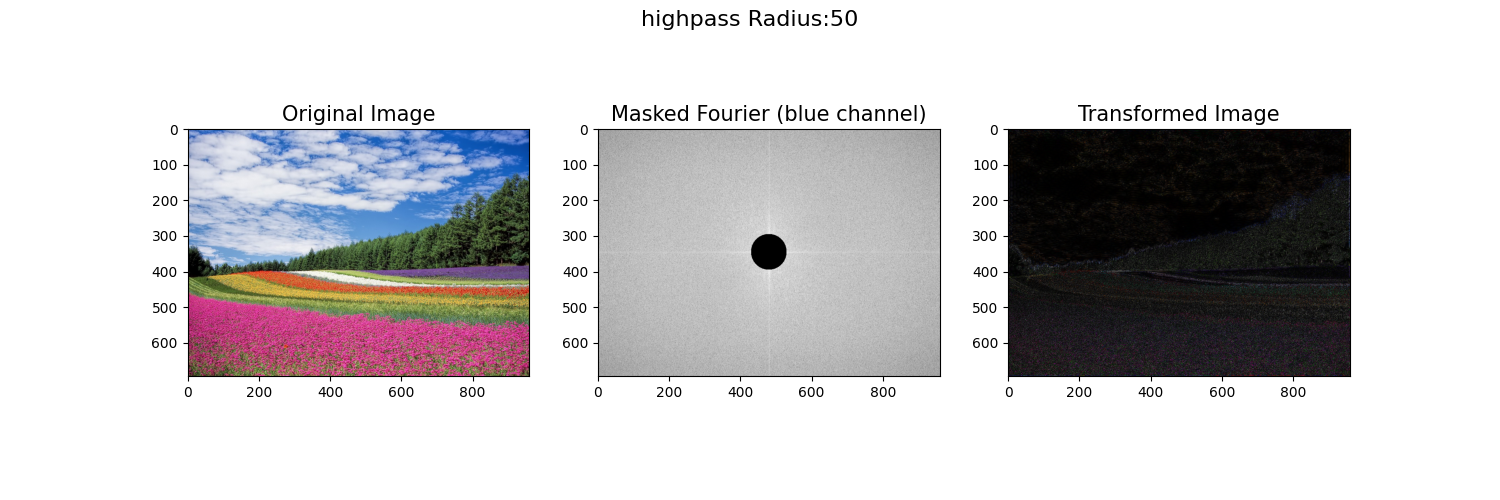
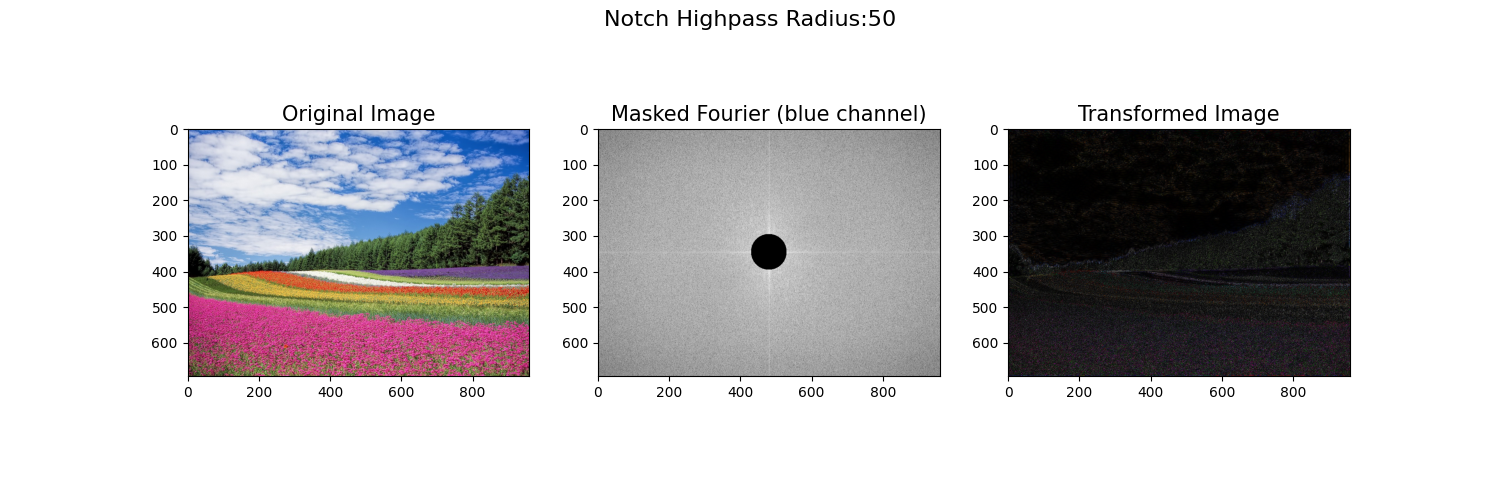
IP assign4 finished

diff --git a/ImageProcessing/assign4/q2.py b/ImageProcessing/assign4/q2.py
@@ -1,28 +1,28 @@
+import math
 import numpy as np
 import matplotlib.pyplot as plt
 from skimage.io import imread
 
 LOWPASS = 0
 HIGHPASS = 1
-def notch_filter(img_path, radius, type_=0):
+def gaussian_filter(img_path, cutoff, type_=0):
     img = imread(img_path)
+    cutoff_sqr = pow(cutoff, 2)
     height, width= img.shape[0], img.shape[1]
     centroid_x = int((height + 1)/2 - 1)
     centroid_y = int((width + 1)/2 - 1)
-    r = pow(radius, 2)
     transformed_channels = []
     fig, ax = plt.subplots(1,3,figsize=(15,5))
-    for i in range(3):
+    for i in range(3): # RGB channels
         img_fourier = np.fft.fftshift(np.fft.fft2(img[:,:,i]))
         for x in range(height):
             for y in range(width):
-                dist = pow(x - centroid_x, 2) + pow(y - centroid_y, 2)
+                dist_sqr = pow(x - centroid_x, 2) + pow(y - centroid_y, 2)
+                h = pow(math.e, -1*dist_sqr/(2*cutoff_sqr))
                 if type_ == LOWPASS:
-                    if dist > r:
-                        img_fourier[x, y] = 1
+                    img_fourier[x, y] *= h   
                 elif type_ == HIGHPASS:
-                    if dist < r:
-                        img_fourier[x, y] = 1
+                    img_fourier[x, y] *= (1-h)      
         transformed_channels.append(abs(np.fft.ifft2(img_fourier)))
     final_image = np.dstack([
         transformed_channels[0].astype(int), 
@@ -30,18 +30,21 @@ def notch_filter(img_path, radius, type_=0):
         transformed_channels[2].astype(int)])
     # matpotlib Figure
     t = "lowpass" if type_ == 0 else "highpass"
-    fig.suptitle(f'{t} Radius:{radius}', fontsize=16)
+    fig.suptitle(f'Gaussian {t} cutoff:{cutoff}', fontsize=16)
     ax[0].imshow(img)
     ax[0].set_title('Original Image', fontsize=15)
-    ax[1].imshow((np.log(abs(img_fourier))), cmap="gray")
+    # avoid log(0)
+    img_fourier_log = np.ma.log(abs(img_fourier))
+    img_fourier_log = img_fourier_log.filled(img_fourier_log.min()) 
+    ax[1].imshow(img_fourier_log, cmap="gray")
     ax[1].set_title('Masked Fourier (blue channel)', fontsize=15)
     ax[2].imshow(final_image)
     ax[2].set_title('Transformed Image', fontsize = 15)
     file_name = img_path.strip(".jpg").split()[-1]
-    plt.savefig(f'{file_name}_notch_{t}{radius}')
-
+    plt.savefig(f'{file_name}_gaussian_{t}{cutoff}')
+    plt.show()
 # MAIN
 if __name__ == '__main__':
     for r in [10, 50, 100]:
-        notch_filter('ImageProcessing/assign4/fruit.jpg', radius = r, type_ = LOWPASS)
-        notch_filter('ImageProcessing/assign4/fruit.jpg', radius = r, type_ = HIGHPASS)
+        gaussian_filter('ImageProcessing/assign4/flower1.jpg', cutoff = r, type_ = LOWPASS)
+        gaussian_filter('ImageProcessing/assign4/flower1.jpg', cutoff = r, type_ = HIGHPASS)

diff --git a/ImageProcessing/assign4/q1.py b/ImageProcessing/assign4/q1.py
@@ -10,30 +10,32 @@ def notch_filter(img_path, radius, type_=0):
     centroid_x = int((height + 1)/2 - 1)
     centroid_y = int((width + 1)/2 - 1)
     r = pow(radius, 2)
+    h1,h2 = (1, 0) if type_ == 0 else (0, 1)
     transformed_channels = []
     fig, ax = plt.subplots(1,3,figsize=(15,5))
-    for i in range(3):
+    for i in range(3): # RGB channels
         img_fourier = np.fft.fftshift(np.fft.fft2(img[:,:,i]))
         for x in range(height):
             for y in range(width):
                 dist = pow(x - centroid_x, 2) + pow(y - centroid_y, 2)
-                if type_ == LOWPASS:
-                    if dist > r:
-                        img_fourier[x, y] = 1
-                elif type_ == HIGHPASS:
-                    if dist < r:
-                        img_fourier[x, y] = 1
+                if dist < r:
+                    img_fourier[x, y] *= h1
+                else:
+                    img_fourier[x, y] *= h2
         transformed_channels.append(abs(np.fft.ifft2(img_fourier)))
     final_image = np.dstack([
         transformed_channels[0].astype(int), 
         transformed_channels[1].astype(int), 
         transformed_channels[2].astype(int)])
     # matpotlib Figure
-    t = "lowpass" if type_ == 0 else "highpass"
-    fig.suptitle(f'{t} Radius:{radius}', fontsize=16)
+    t = "Lowpass" if type_ == 0 else "Highpass"
+    fig.suptitle(f'Notch {t} Radius:{radius}', fontsize=16)
     ax[0].imshow(img)
     ax[0].set_title('Original Image', fontsize=15)
-    ax[1].imshow((np.log(abs(img_fourier))), cmap="gray")
+    # avoid log(0)
+    img_fourier_log = np.ma.log(abs(img_fourier))
+    img_fourier_log = img_fourier_log.filled(img_fourier_log.min())
+    ax[1].imshow(img_fourier_log, cmap="gray")
     ax[1].set_title('Masked Fourier (blue channel)', fontsize=15)
     ax[2].imshow(final_image)
     ax[2].set_title('Transformed Image', fontsize = 15)
@@ -43,5 +45,5 @@ def notch_filter(img_path, radius, type_=0):
 # MAIN
 if __name__ == '__main__':
     for r in [10, 50, 100]:
-        notch_filter('ImageProcessing/assign4/fruit.jpg', radius = r, type_ = LOWPASS)
-        notch_filter('ImageProcessing/assign4/fruit.jpg', radius = r, type_ = HIGHPASS)
+        notch_filter('ImageProcessing/assign4/flower1.jpg', radius = r, type_ = LOWPASS)
+        notch_filter('ImageProcessing/assign4/flower1.jpg', radius = r, type_ = HIGHPASS)

diff --git a/ImageProcessing/assign4/q3.py b/ImageProcessing/assign4/q3.py
@@ -1,0 +1,45 @@
+import math
+import numpy as np
+import matplotlib.pyplot as plt
+from skimage.io import imread
+
+LOWPASS = 0
+HIGHPASS = 1
+def notch_reject_filter(img_path, radius, params_array:list[tuple]):
+    img = imread(img_path)
+    radius_sqr = pow(radius, 2)
+    height, width= img.shape[0], img.shape[1]
+    fig, ax = plt.subplots(1,4,figsize=(17,7), dpi=100)
+    img_fourier = np.fft.fftshift(np.fft.fft2(img))
+    ax[1].imshow(np.log(abs(img_fourier)), cmap="gray")
+    ax[1].set_title('Fourier', fontsize = 15)
+    for u0, v0 in params_array:
+        for u in range(height):
+            for v in range(width):
+                d1 = pow(u-(height/2)-u0, 2) + pow(v-(width/2)-v0, 2)
+                d2 = pow(u-(height/2)+u0, 2) + pow(v-(width/2)+v0, 2)
+                if d1 <= radius_sqr or d2 <= radius_sqr:
+                    h = 0
+                else:
+                    h = 1
+                img_fourier[u, v] *= h
+          
+    final_image = abs(np.fft.ifft2(img_fourier))
+    # matpotlib Figure
+    title = f'Notch Reject radius:{radius}\nu0,v0 = {params_array}'
+    fig.suptitle(title, fontsize=16)
+    ax[0].imshow(img, cmap="gray")
+    ax[0].set_title('Original Image', fontsize=15)
+    # avoid log(0)
+    img_fourier_log = np.ma.log(abs(img_fourier))
+    img_fourier_log = img_fourier_log.filled(img_fourier_log.min()) 
+    ax[2].imshow(img_fourier_log, cmap="gray")
+    ax[2].set_title('Masked Fourier', fontsize=15)
+    ax[3].imshow(final_image, cmap="gray")
+    ax[3].set_title('Transformed Image', fontsize = 15)
+    file_name = img_path.strip(".jpg").split()[-1]
+    plt.savefig(f'{file_name}_notchReject_{radius}')
+    plt.show()
+# MAIN
+if __name__ == '__main__':
+    notch_reject_filter("ImageProcessing/assign4/Noisy_flower1_horizontal.jpg", 30, [(70, 0), (140, 0)])
